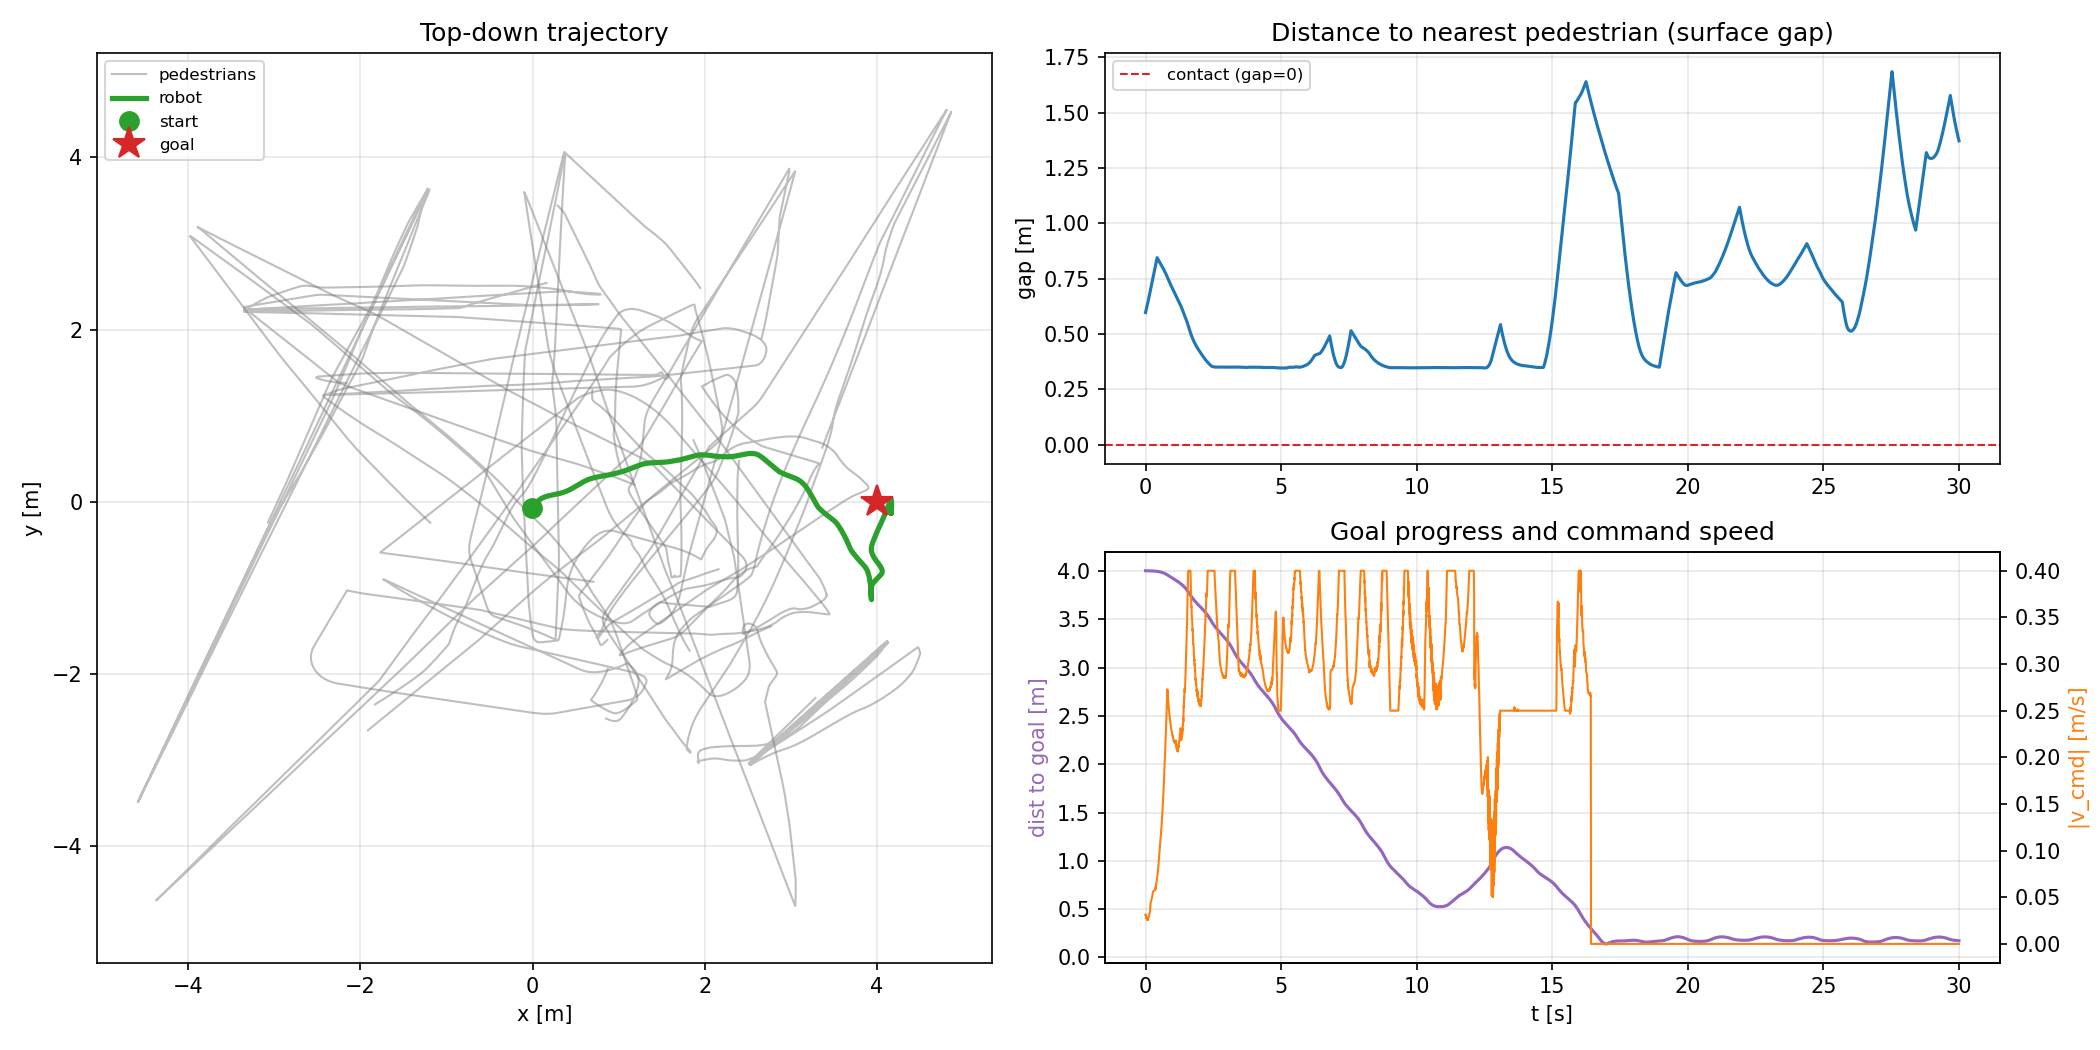
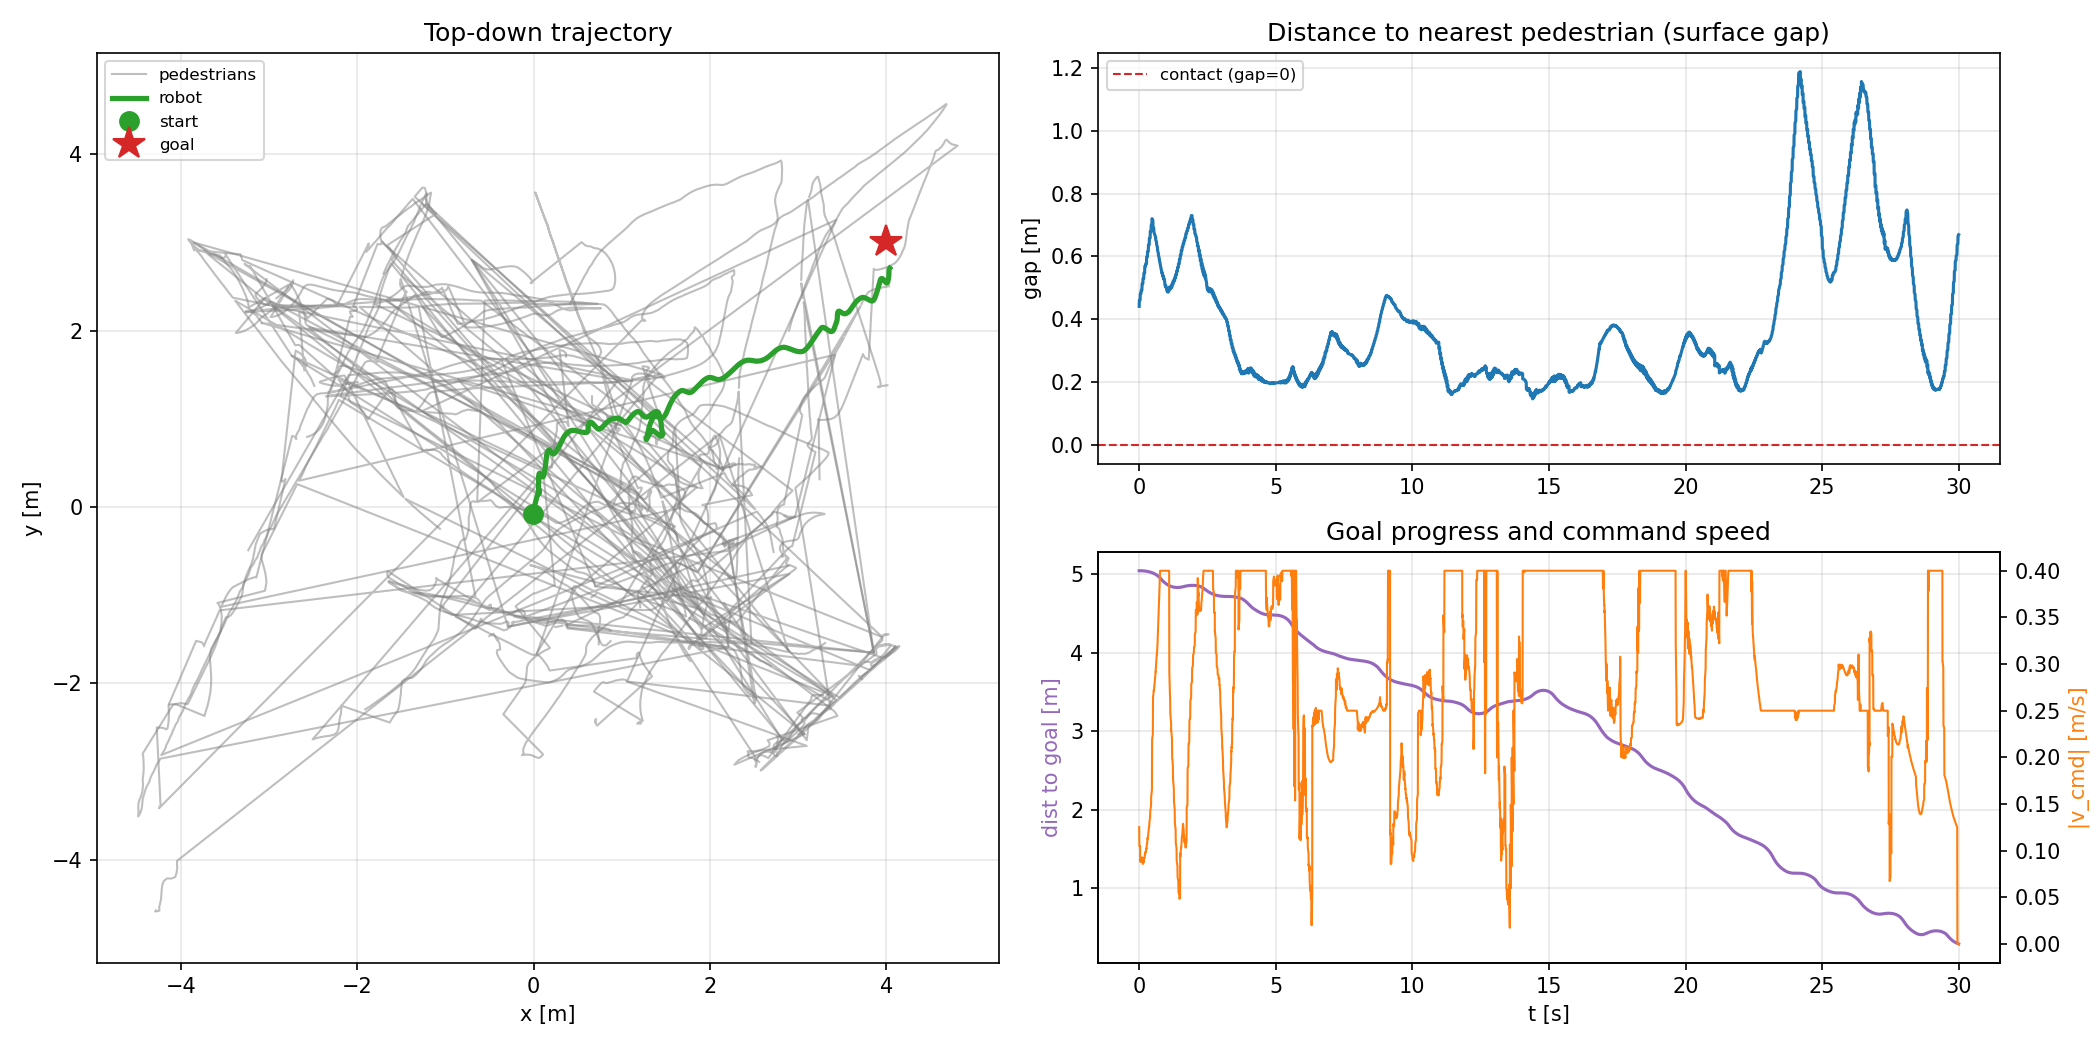
floor polished and waxed, sun turned on.

diff --git a/src/bullet_sims/bullet_sims/crowd_env.py b/src/bullet_sims/bullet_sims/crowd_env.py
@@ -11,6 +11,8 @@ to the depth and segmentation cameras.
 import numpy as np
 import mujoco
 
+from simulator import simulator
+
 
 class CrowdEnv:
     """Spawns N cylinder agents into a MujocoWrapper scene and moves them
@@ -66,9 +68,96 @@ class CrowdEnv:
                 contype=0, conaffinity=0,
             )
 
+        spec = simulator._spec
+        self._build_ambience(spec)
+
         # same flow as spawn_static_box: mark dirty and recompile in place
         simulator._dirty = True
         simulator._ensure_compiled()
+
+    def _build_ambience(self, spec):
+        """Skybox gradient, tiled floor material, sun + fill lighting."""
+        # skybox: deep night blue at the zenith fading into a light horizon grey
+        spec.add_texture(
+            name='hub_skybox',
+            type=mujoco.mjtTexture.mjTEXTURE_SKYBOX,
+            builtin=mujoco.mjtBuiltin.mjBUILTIN_GRADIENT,
+            rgb1=[0.06, 0.10, 0.24],   # zenith
+            rgb2=[0.72, 0.76, 0.82],   # horizon
+            width=512, height=3072)
+
+        # floor: light tiles with dark grout lines -> strong, regular contrast
+        # edges for the depth camera
+        spec.add_texture(
+            name='hub_floor_tex',
+            type=mujoco.mjtTexture.mjTEXTURE_2D,
+            builtin=mujoco.mjtBuiltin.mjBUILTIN_CHECKER,
+            rgb1=[0.78, 0.80, 0.84],
+            rgb2=[0.62, 0.66, 0.72],
+            mark=mujoco.mjtMark.mjMARK_EDGE,
+            markrgb=[0.35, 0.38, 0.42],  # soft grout lines (hard ones moire at distance)
+            width=512, height=512)
+        floor_mat = spec.add_material(
+            name='hub_floor_mat',
+            texrepeat=[0.5, 0.5],   # with texuniform: 1 m tiles
+            texuniform=True,
+            reflectance=0.15,
+            specular=0.3,
+            shininess=0.4)
+        floor_mat.textures[mujoco.mjtTextureRole.mjTEXROLE_RGB] = 'hub_floor_tex'
+        for g in spec.geoms:
+            if g.name == 'floor':
+                g.material = 'hub_floor_mat'
+                g.rgba = [1.0, 1.0, 1.0, 1.0]  # untinted texture
+                # render the plane as a finite 30x30 m terminal platform (the
+                # collision plane stays infinite regardless of the size)
+                g.size = [15.0, 15.0, 1.0]
+                break
+
+        # the directional-light shadow volume scales with stat.extent; the
+        # auto-computed extent (~13 m) leaves the volume edge in the middle of
+        # the platform, which shows up as a speckled shadow-acne band on the
+        # far floor. Enlarging the extent pushes the edge past the platform.
+        # (Also grows the render far plane: zfar = extent * vis.map.zfar.)
+        spec.stat.extent = 45.0
+
+        # glass material for the bottleneck walls (futuristic look)
+        spec.add_material(
+            name='hub_glass_mat',
+            reflectance=0.4,
+            specular=0.9,
+            shininess=0.9)
+
+        # main sun: strong, low-angle directional light with soft shadows
+        spec.worldbody.add_light(
+            name='hub_sun',
+            type=mujoco.mjtLightType.mjLIGHT_DIRECTIONAL,
+            diffuse=[0.75, 0.73, 0.68],
+            specular=[0.3, 0.3, 0.3],
+            pos=[0.0, 0.0, 12.0],
+            dir=[0.35, -0.5, -1.0],
+            castshadow=True)
+        # soft fill from the opposite side so shadowed faces stay readable
+        spec.worldbody.add_light(
+            name='hub_fill',
+            type=mujoco.mjtLightType.mjLIGHT_DIRECTIONAL,
+            diffuse=[0.18, 0.19, 0.22],
+            specular=[0.0, 0.0, 0.0],
+            pos=[0.0, 0.0, 8.0],
+            dir=[-0.4, 0.5, -1.0],
+            castshadow=False)
+        # the wrapper's default "sun" would double-expose the scene and cast a
+        # second, conflicting shadow -> demote it to a shadowless helper
+        for light in spec.lights:
+            if light.name == 'sun':
+                light.diffuse = [0.25, 0.25, 0.25]
+                light.castshadow = False
+
+        # high-res shadow map for soft, clean shadow edges; dim headlight so
+        # the directional lighting dominates
+        spec.visual.quality.shadowsize = 8192
+        spec.visual.headlight.diffuse = [0.25, 0.25, 0.25]
+        spec.visual.headlight.ambient = [0.12, 0.12, 0.12]
 
     def _default_paths(self):
         # Keep the agents 2-5 m in front of the robot (camera looks along

diff --git a/src/bullet_sims/bullet_sims/floor_ambience.py b/src/bullet_sims/bullet_sims/floor_ambience.py
@@ -1,0 +1,81 @@
+"""Shared floor styling (tiled, high-quality lighting) for walking and transit_hub."""
+
+import mujoco
+
+
+def setup_floor_ambience(spec):
+	"""Apply the tiled floor texture, materials, and high-quality lighting to the
+	simulator spec. Works on any spec with an existing 'floor' geom."""
+	"""Skybox gradient, tiled floor material, sun + fill lighting."""
+	# skybox: deep night blue at the zenith fading into a light horizon grey
+	spec.add_texture(
+		name='hub_skybox',
+		type=mujoco.mjtTexture.mjTEXTURE_SKYBOX,
+		builtin=mujoco.mjtBuiltin.mjBUILTIN_GRADIENT,
+		rgb1=[0.06, 0.10, 0.24],   # zenith
+		rgb2=[0.72, 0.76, 0.82],   # horizon
+		width=512, height=3072)
+	
+	# floor: light tiles with dark grout lines -> strong, regular contrast
+	# edges for the depth camera
+	spec.add_texture(
+		name='floor_tex',
+		type=mujoco.mjtTexture.mjTEXTURE_2D,
+		builtin=mujoco.mjtBuiltin.mjBUILTIN_CHECKER,
+		rgb1=[0.78, 0.80, 0.84],
+		rgb2=[0.62, 0.66, 0.72],
+		mark=mujoco.mjtMark.mjMARK_EDGE,
+		markrgb=[0.35, 0.38, 0.42],  # soft grout lines (hard ones moire at distance)
+		width=512, height=512)
+	floor_mat = spec.add_material(
+		name='floor_mat',
+		texrepeat=[0.5, 0.5],   # with texuniform: 1 m tiles
+		texuniform=True,
+		reflectance=0.15,
+		specular=0.3,
+		shininess=0.4)
+	floor_mat.textures[mujoco.mjtTextureRole.mjTEXROLE_RGB] = 'floor_tex'
+
+	# apply material to floor geom
+	for g in spec.geoms:
+		if g.name == 'floor':
+			g.material = 'floor_mat'
+			g.rgba = [1.0, 1.0, 1.0, 1.0]  # untinted texture
+			# render the plane as a finite 30x30 m platform (the
+			# collision plane stays infinite regardless of the size)
+			g.size = [15.0, 15.0, 1.0]
+			break
+
+	# enhance lighting: larger shadow map, dim the default headlight
+	spec.stat.extent = 45.0
+
+	# main sun: strong, low-angle directional light with soft shadows
+	spec.worldbody.add_light(
+		name='sun_main',
+		type=mujoco.mjtLightType.mjLIGHT_DIRECTIONAL,
+		diffuse=[0.75, 0.73, 0.68],
+		specular=[0.3, 0.3, 0.3],
+		pos=[0.0, 0.0, 12.0],
+		dir=[0.35, -0.5, -1.0],
+		castshadow=True)
+
+	# soft fill from the opposite side so shadowed faces stay readable
+	spec.worldbody.add_light(
+		name='fill_light',
+		type=mujoco.mjtLightType.mjLIGHT_DIRECTIONAL,
+		diffuse=[0.18, 0.19, 0.22],
+		specular=[0.0, 0.0, 0.0],
+		pos=[0.0, 0.0, 8.0],
+		dir=[-0.4, 0.5, -1.0],
+		castshadow=False)
+
+	# dim the default "sun" (replace its shadow with the custom directional lights above)
+	for light in spec.lights:
+		if light.name == 'sun':
+			light.diffuse = [0.25, 0.25, 0.25]
+			light.castshadow = False
+
+	# high-res shadow map for soft, clean shadow edges; dim headlight
+	spec.visual.quality.shadowsize = 8192
+	spec.visual.headlight.diffuse = [0.25, 0.25, 0.25]
+	spec.visual.headlight.ambient = [0.12, 0.12, 0.12]

diff --git a/src/bullet_sims/bullet_sims/walking.py b/src/bullet_sims/bullet_sims/walking.py
@@ -24,6 +24,7 @@ from bullet_sims.foot_trajectory import SwingFootTrajectory
 from bullet_sims.talos import Talos
 from bullet_sims.lip_mpc import LIPMPC, LIPInterpolator, generate_zmp_reference, generate_yaw_reference
 from bullet_sims.reactive_footstep_planner import ReactiveFootStepPlanner
+from bullet_sims.floor_ambience import setup_floor_ambience
 
 # crowd
 from orca_nav.robot_orca import RobotORCA
@@ -37,7 +38,7 @@ from orca_nav.pedestrian import PedestrianSimulator
 
 
 # footstep path for the walking demo: "line" (straight) or "circle" (curved)
-WALK_MODE = "circle"
+WALK_MODE = "line"
 CIRCLE_RADIUS = 1.5     # [m] radius of the centre path when WALK_MODE == "circle"
 CIRCLE_CLOCKWISE = False   # False = curve left/CCW, True = curve right/CW
 # False = omnidirectional (fixed facing, side-steps along the curve) -> robust: reuses
@@ -47,7 +48,7 @@ CIRCLE_FACE_PATH = False
 
 # robot navigation: goal it heads toward, and the arrow display scale.
 # v_cmd (from ORCA) now DRIVES the reactive footstep planner; green arrow = v_cmd.
-ROBOT_GOAL = (4.0, 3.0)    # world (x, y) navigation goal
+ROBOT_GOAL = (4.0, 0.0)    # world (x, y) navigation goal
 ARROW_SCALE = 3.0          # visual stretch so the slow v_cmd arrow is visible
 WALK_DURATION = 30.0       # [s] max walk time (reactive walking has no fixed step count)
 REACTIVE = True            # True: footsteps follow v_cmd; False: fixed WALK_MODE plan
@@ -68,7 +69,7 @@ TOUCHDOWN_FZ = 75.0        # [N]
 # ---- runtime parameters (defaults; override at launch via ROS 2 params, e.g.
 #   ros2 run bullet_sims walking --ros-args -p scenario:=crossing -p pedestrian_sensor_data:=true )
 SCENARIO = "random"              # crowd scenario: head_on | crossing | circle | corridor | random
-PEDESTRIAN_SENSOR_DATA = False   # True: depth-camera perception; False: ground-truth states
+PEDESTRIAN_SENSOR_DATA = False    # True: depth-camera perception; False: ground-truth states
 
 
 ################################################################################
@@ -664,6 +665,11 @@ def _read_runtime_params():
 def main():
     # NOTE: ros2 run skips the __main__ block, so all setup happens here.
     simulator = _setup_simulator()
+
+    # apply beautiful tiled floor and lighting
+    setup_floor_ambience(simulator._spec)
+    simulator._dirty = True
+    simulator._ensure_compiled()
 
     # runtime parameters (scenario, sensor vs ground truth) -> module globals
     _read_runtime_params()
